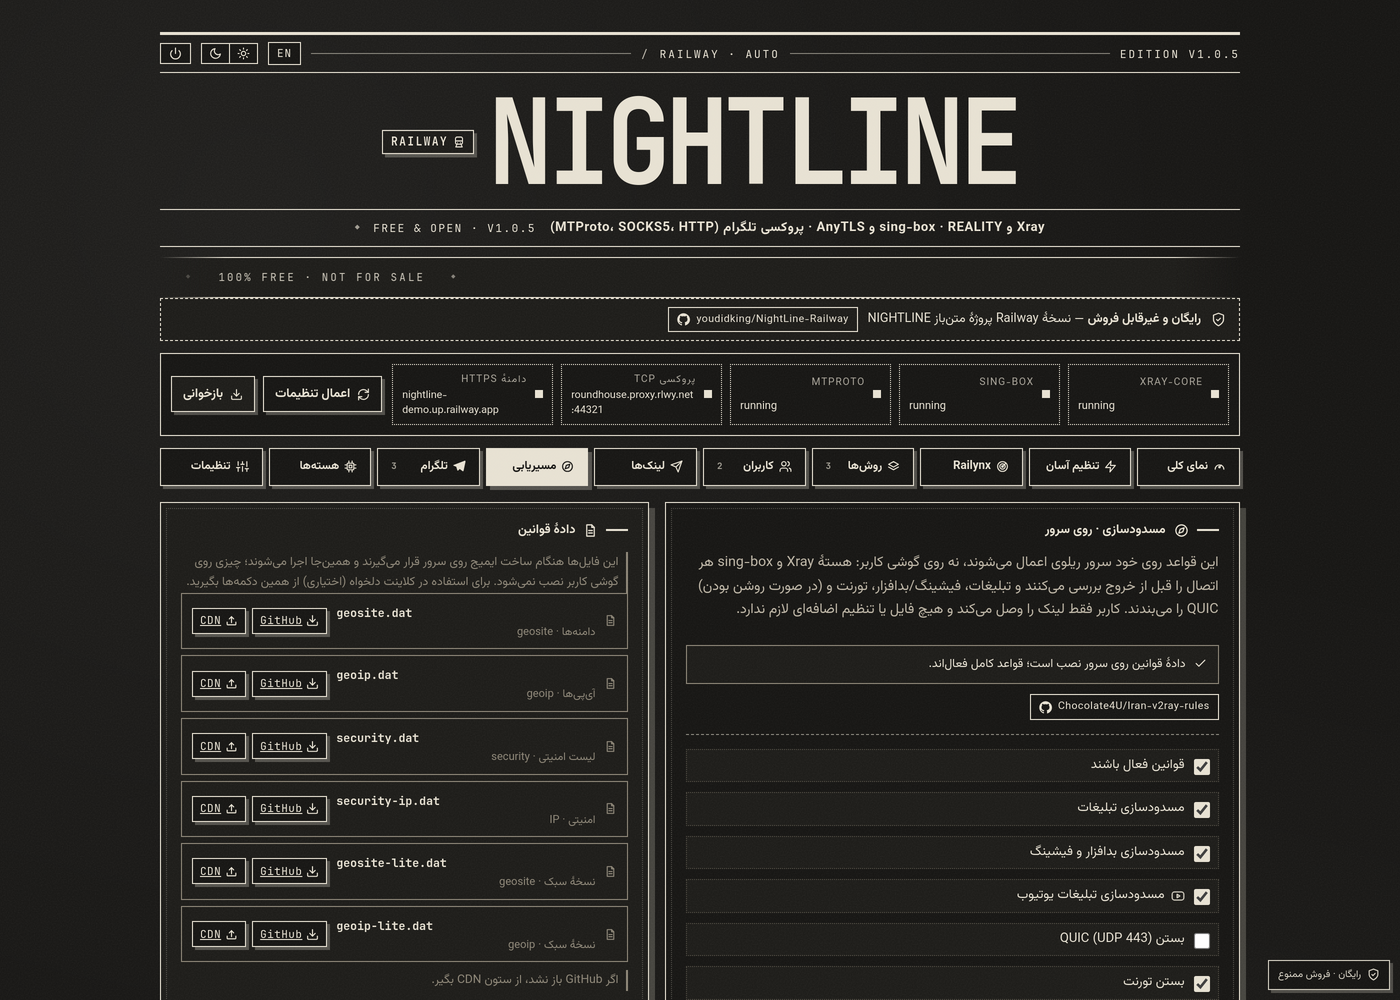
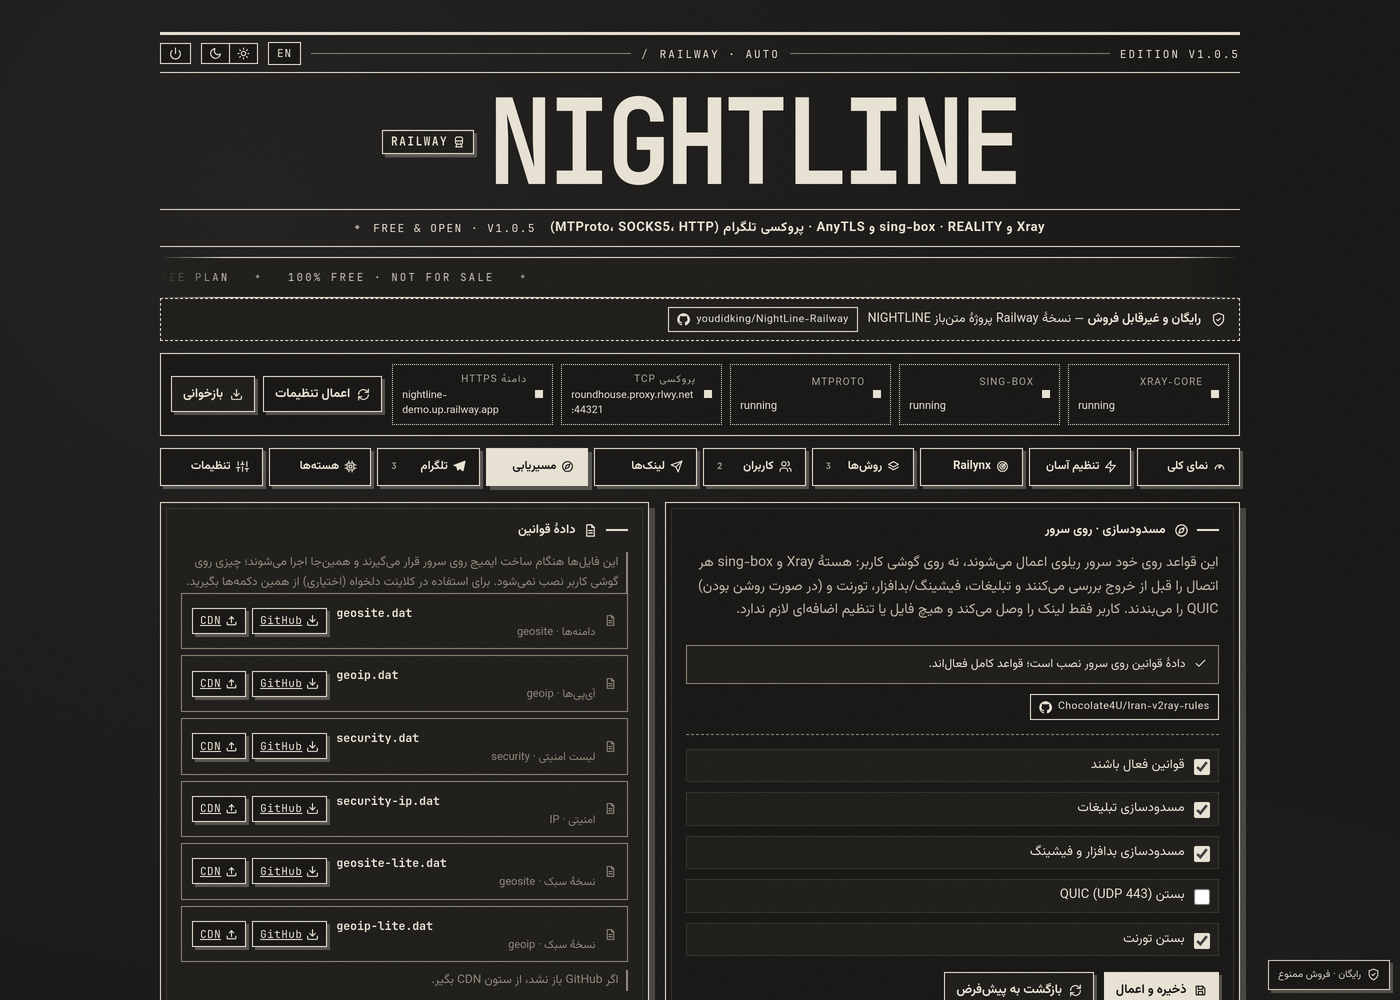
Add files via upload

diff --git a/src/routing.js b/src/routing.js
@@ -120,47 +120,6 @@ export function rulesAssets() {
 }
 
 /**
- * YouTube ad blocking (v1.0.5).
- *
- * A proxy server can only route by hostname — the URL path ("/api/stats/ads")
- * is inside TLS and is never visible, so YouTube's own ad endpoints cannot be
- * matched directly. What *is* left on the wire is two things, and both are used
- * here:
- *
- *  1. The ad/tracking hosts the player still talks to (ads.youtube.com,
- *     s.youtube.com — which carries /api/stats/ads, /pagead and /ptracking — and
- *     the Google ad servers that serve the video-ad VAST/VMAP documents).
- *  2. HTTP/3: YouTube ships the stitched ad stream over QUIC (UDP 443). Rejecting
- *     QUIC for the YouTube hostnames forces the player back to TCP, where ads are
- *     separable and skippable. This is the same rule the current YouTube
- *     ad-block modules ship ("UDP 443 reject") plus the host list — and because
- *     it is scoped to YouTube hostnames, ordinary QUIC traffic elsewhere is
- *     untouched.
- *
- * Video itself is served from googlevideo.com over TCP, so playback stays intact:
- * only the ad channels are cut, nothing on the user's device is configured.
- */
-export const YOUTUBE_AD_HOSTS = [
-  'ads.youtube.com',
-  's.youtube.com',
-  'pagead2.googlesyndication.com',
-  'pubads.g.doubleclick.net',
-  'googleads.g.doubleclick.net',
-  'static.doubleclick.net',
-  'adservice.google.com',
-];
-
-/** YouTube hostnames whose QUIC (HTTP/3) channel carries the ad stream. */
-export const YOUTUBE_QUIC_HOSTS = [
-  'googlevideo.com',
-  'youtube.com',
-  'youtu.be',
-  'ytimg.com',
-  'ggpht.com',
-  'youtubei.googleapis.com',
-];
-
-/**
  * Rules the cores enforce ON THE SERVER (this Railway container):
  * ads / malware / phishing / miners are dropped, QUIC and BitTorrent can be
  * dropped, private ranges never leave the box. No client-side setup needed.
@@ -183,20 +142,6 @@ export function serverXrayRules(settings, assets = rulesAssets()) {
       domain: ['geosite:malware', 'geosite:phishing', 'geosite:cryptominers'],
     });
     rules.push({ type: 'field', outboundTag: 'block', ip: ['geoip:malware', 'geoip:phishing'] });
-  }
-  if (s.blockYoutube) {
-    rules.push({
-      type: 'field',
-      outboundTag: 'block',
-      domain: YOUTUBE_AD_HOSTS.map((h) => `domain:${h}`),
-    });
-    rules.push({
-      type: 'field',
-      outboundTag: 'block',
-      domain: YOUTUBE_QUIC_HOSTS.map((h) => `domain:${h}`),
-      network: 'udp',
-      port: '443',
-    });
   }
   if (s.blockBittorrent) {
     // stops the service being used as a torrent exit node
@@ -228,10 +173,6 @@ export function serverSingboxRules(settings, assets = rulesAssets()) {
     rules.push({ rule_set: ['geosite-malware', 'geosite-phishing'], action: 'reject' });
     rules.push({ rule_set: 'geoip-malware', action: 'reject' });
   }
-  if (s.blockYoutube) {
-    rules.push({ domain_suffix: YOUTUBE_AD_HOSTS, action: 'reject' });
-    rules.push({ domain_suffix: YOUTUBE_QUIC_HOSTS, network: 'udp', port: 443, action: 'reject' });
-  }
   if (s.blockQuic) rules.push({ protocol: 'quic', action: 'reject' });
   if (s.blockBittorrent) rules.push({ protocol: 'bittorrent', action: 'reject' });
   return { ruleSets, rules };
@@ -241,7 +182,6 @@ export const ROUTING_DEFAULTS = {
   enabled: true,
   blockAds: true,
   blockSecurity: true,
-  blockYoutube: true,
   blockQuic: false,
   blockBittorrent: true,
 };

diff --git a/public/app.js b/public/app.js
@@ -2056,7 +2056,6 @@ const RT_TOGGLES = [
   { key: 'enabled', fa: 'قوانین فعال باشند', en: 'RULES ENABLED', hintFa: 'کلید اصلی؛ با خاموشکردن آن هیچ قاعدهای روی هستهها نوشته نمیشود.', hintEn: 'Master switch: no rules are written to the cores when off.' },
   { key: 'blockAds', fa: 'مسدودسازی تبلیغات', en: 'BLOCK ADS', hintFa: 'لیست تبلیغات فارسی و خارجی، روی خود سرور بسته میشود.', hintEn: 'Persian and foreign ad lists, blocked on the server itself.' },
   { key: 'blockSecurity', fa: 'مسدودسازی بدافزار و فیشینگ', en: 'BLOCK MALWARE & PHISHING', hintFa: 'دامنه و آیپیهای آلوده و ماینرها.', hintEn: 'Malware, phishing, miner domains and addresses.' },
-  { key: 'blockYoutube', icon: 'youtube', fa: 'مسدودسازی تبلیغات یوتیوب', en: 'BLOCK YOUTUBE ADS', hintFa: 'کانالهای تبلیغ یوتیوب روی سرور بسته میشوند: میزبانهای تبلیغ و کانال QUIC/UDP 443 که استریم تبلیغ از آن میآید. پخش خود ویدیو دستنخورده میماند و کاربر هیچ تنظیمی روی گوشی ندارد.', hintEn: 'YouTube ad channels are dropped on the server: the ad hosts and the QUIC/UDP 443 channel that carries the stitched ad stream. Video playback itself is untouched and the user configures nothing.' },
   { key: 'blockQuic', fa: 'بستن QUIC (UDP 443)', en: 'BLOCK QUIC (UDP 443)', hintFa: 'همان چیزی که DPI ایران بیشتر از همه محدود میکند.', hintEn: 'The protocol Iranian DPI throttles hardest.' },
   { key: 'blockBittorrent', fa: 'بستن تورنت', en: 'BLOCK TORRENT', hintFa: 'سرور بهعنوان خروجی تورنت استفاده نمیشود.', hintEn: 'Keeps the service from being used as a torrent exit.' },
 ];
@@ -2111,7 +2110,7 @@ function renderRouting() {
           ${RT_TOGGLES.map((row) => `
             <label class="chk" title="${esc(tt(row.hintFa, row.hintEn))}">
               <input type="checkbox" id="s-rt-${row.key}" ${s[row.key] ? 'checked' : ''}>
-              <span class="rt-row-label">${row.icon ? `<svg class="ic ic-sm rt-row-ic"><use href="#i-${row.icon}"/></svg>` : ''}${t(row.fa, row.en)}</span>
+              ${t(row.fa, row.en)}
             </label>`).join('')}
         </div>
         <div class="actions">

diff --git a/public/index.html b/public/index.html
@@ -20,7 +20,6 @@
   <symbol id="i-github" viewBox="0 0 24 24"><path fill="currentColor" stroke="none" d="M12 .5C5.73.5.5 5.73.5 12c0 5.08 3.29 9.39 7.86 10.91.58.11.79-.25.79-.55 0-.27-.01-1.17-.02-2.12-3.2.7-3.88-1.36-3.88-1.36-.52-1.33-1.28-1.68-1.28-1.68-1.05-.72.08-.7.08-.7 1.16.08 1.77 1.19 1.77 1.19 1.03 1.77 2.7 1.26 3.36.96.1-.75.4-1.26.73-1.55-2.55-.29-5.24-1.28-5.24-5.68 0-1.26.45-2.29 1.19-3.1-.12-.29-.52-1.46.11-3.05 0 0 .96-.31 3.16 1.18.92-.26 1.9-.39 2.88-.39.98 0 1.96.13 2.88.39 2.2-1.49 3.16-1.18 3.16-1.18.63 1.59.23 2.76.11 3.05.74.81 1.19 1.84 1.19 3.1 0 4.41-2.69 5.38-5.25 5.67.41.36.78 1.06.78 2.14 0 1.55-.01 2.8-.01 3.18 0 .31.21.67.8.55C20.71 21.39 24 17.08 24 12 24 5.73 18.27.5 12 .5z"/></symbol>
 <symbol id="i-telegram" viewBox="0 0 24 24"><path fill="currentColor" stroke="none" d="M23.07 3.28 19.6 19.66c-.26 1.16-.95 1.44-1.92.9l-5.3-3.91-2.56 2.47c-.28.28-.52.52-1.07.52-.69 0-.62-.28-.85-.94l-1.9-6.16L1.3 10.7c-1.13-.36-1.15-1.13.24-1.67L21.36 1.3c.94-.36 1.86.24 1.71 1.98zM8.53 14.5l9.15-5.77c.44-.28.85-.13.52.18l-7.5 6.77-.3 3.1-1.87-4.28z"/></symbol>
 <symbol id="i-telegram-old" viewBox="0 0 24 24"><path fill="currentColor" stroke="none" d="m9.78 18.65.28-4.23 7.71-6.93c.34-.31-.07-.46-.53-.18l-9.52 6.05-4.12-1.29c-.89-.28-.9-.89.2-1.33l16.08-6.2c.73-.32 1.44.18 1.17 1.4l-2.74 12.72c-.19.91-.75 1.13-1.51.71l-4.24-3.14-2.05 1.97c-.23.23-.43.43-.73.45Z"/></symbol>
-  <symbol id="i-youtube" viewBox="0 0 24 24"><rect x="2" y="5" width="20" height="14" rx="4"/><path d="M10.4 9.1l4.8 2.9-4.8 2.9z"/></symbol>
   <symbol id="i-bolt" viewBox="0 0 24 24"><path d="M13 2L3 14h9l-1 8 10-12h-9l1-8z"/></symbol>
   <symbol id="i-radar" viewBox="0 0 24 24"><circle cx="12" cy="12" r="9"/><circle cx="12" cy="12" r="5"/><circle cx="12" cy="12" r="1.5"/><path d="M12 12l6.3-6.3"/></symbol>
   <symbol id="i-sun" viewBox="0 0 24 24"><circle cx="12" cy="12" r="4"/><path d="M12 2v2M12 20v2M4.93 4.93l1.41 1.41M17.66 17.66l1.41 1.41M2 12h2M20 12h2M4.93 19.07l1.41-1.41M17.66 6.34l1.41-1.41"/></symbol>

diff --git a/public/extra.css b/public/extra.css
@@ -666,10 +666,3 @@ footer.colophon-wrap,footer{margin-top:26px}
 .hosts-alert .field-grid{margin-bottom:10px}
 @media (max-width:640px){ .hosts-alert .field-grid{grid-template-columns:minmax(0,1fr)} }
 
-/* ═══════════════════════════════════════════════════════════════════════
-   1.0.5 · youtube icon inside the routing toggles
-   The new "block YouTube ads" row carries a small play-button glyph next to
-   its label, so the switch is recognisable at a glance without reading it.
-   ---------------------------------------------------------------------- */
-.chk .rt-row-label{display:inline-flex;align-items:center;gap:6px;min-width:0}
-.chk .rt-row-ic{width:14px;height:14px;flex:none;opacity:.9}

diff --git a/assets/src/features.html b/assets/src/features.html
@@ -142,7 +142,7 @@
         <span class="n">13</span>
         <svg class="ic"><use href="#i-compass"/></svg>
         <h3>مسدودسازی روی سرور</h3>
-        <p>تبلیغات، تبلیغات یوتیوب، فیشینگ، بدافزار و تورنت روی خود سرور بسته میشوند؛ روی گوشی کاربر هیچ تنظیم یا فایلی لازم نیست.</p>
+        <p>تبلیغات، فیشینگ، بدافزار و تورنت روی خود سرور بسته میشوند؛ روی گوشی کاربر هیچ تنظیم یا فایلی لازم نیست.</p>
         <div class="tagline">SERVER-SIDE RULES</div>
       </div>
     </div>

diff --git a/README.md b/README.md
@@ -55,7 +55,7 @@
 | **کاربران** | ساخت/ویرایش/حذف، سهمیهٔ حجم، تاریخ انقضا، محدودیت IP، صفر کردن مصرف، تعویض کلید |
 | **اشتراک** | پنج فرمت: لینک خام، base64، کانفیگ کامل Xray، کانفیگ کامل sing-box، YAML کلش/میهومو — **یک لینک، همهٔ روشهای فعال** |
 | **تنظیم آسان** | سه پروفایل ایرانمحور که خودشان شبکه را تحلیل میکنند، پروتکلها را میچینند و لینک آماده تحویل میدهند |
-| **مسدودسازی روی سرور** | تبلیغات، تبلیغات یوتیوب، فیشینگ/بدافزار و تورنت روی خود سرور بسته میشوند — بدون هیچ تنظیمی روی گوشی کاربر |
+| **مسدودسازی روی سرور** | تبلیغات، فیشینگ/بدافزار و تورنت روی خود سرور بسته میشوند — بدون هیچ تنظیمی روی گوشی کاربر |
 | **ویرایش آزاد** | کانفیگ کامل Xray و sing-box را میتوانید دستی ویرایش کنید؛ اگر هسته رد کند، پنل خودکار برمیگردد |
 | **Railynx** | اسکنر آیپی تمیز ریلوی: رنج را میگردد و فقط آیپیهایی را میدهد که سه بار پشت سر هم VLESS-over-WS را با ۲۰۴ رد کنند |
 | **تحویل** | QR، صفحهٔ اختصاصی کاربر (`/u/<token>`)، هدر `Subscription-Userinfo` |
@@ -207,11 +207,9 @@ Railway یک `host:port` عمومی میدهد و همان را در `RAILWAY
 | :--- | :--- | :--- |
 | **تبلیغات** | روشن | دامنههای `category-ads-all` و `ads` مسدود میشوند |
 | **فیشینگ و بدافزار** | روشن | دامنه و آیپیهای مخرب مسدود میشوند |
-| **تبلیغات یوتیوب** | روشن | میزبانهای تبلیغ یوتیوب و کانال QUIC (UDP 443) که استریم تبلیغ را میآورد بسته میشوند؛ پخش ویدیو دستنخورده میماند |
 | **QUIC (UDP 443)** | خاموش | بستن QUIC؛ روشن کردنش سرعت را در بعضی شبکهها بهتر میکند |
 | **تورنت** | روشن | سرور به خروجی تورنت تبدیل نمیشود |
 
-- **تبلیغات یوتیوب:** سرور فقط هاست (نام دامنه) را میبیند و مسیر URL داخل TLS پنهان است، پس تبلیغات یوتیوب از دو راه واقعی بسته میشود: میزبانهای تبلیغ (`ads.youtube.com`، `s.youtube.com` که `/api/stats/ads` و `/pagead` روی آن است، و سرورهای تبلیغ گوگل) مسدود میشوند و کانال **QUIC / UDP 443** همان دامنههای یوتیوب که استریم تبلیغ از آن میآید بسته میشود تا پخش روی TCP برود. ویدیو از همان CDN روی TCP میآید، پس پخش سالم میماند و کاربر هیچ کاری نمیکند.
 - هیچ گزینهٔ «ایران مستقیم»، تقسیم ترافیک یا قاعدهٔ سمت کلاینت وجود ندارد؛ فایلهای اشتراک (Xray / sing-box / Clash) ساده و ثابتاند و فقط اتصال را میسازند.
 - قواعد در کانفیگ **Xray** (بخش `routing`) و **sing-box** (`route.rules`) نوشته میشوند و قبل از اجرا با `xray -test` و `sing-box check` اعتبارسنجی میشوند.
 - اگر هسته به هر دلیلی (مثلاً نبود دادهٔ قوانین) کانفیگ را رد کند، پنل همان لحظه یکبار بدون قواعد ژئو دوباره بالا میآید و در لاگ هشدار میدهد؛ اتصال کاربر هرگز قربانی یک قاعدهٔ مسدودسازی نمیشود.
@@ -419,6 +417,16 @@ vless://UUID@<CleanIP>:<port>?encryption=none&security=<security>&sni=<domain>&f
 
 > هیچ کلید، سکرت یا گذرواژهای در مخزن، در `.env.example` یا در مستندات نیست. همهٔ آنها در اولین اجرا و روی والیوم خودتان ساخته میشوند.
 
+---
+
+## محدودیتهای صادقانه
+
+1. **UDP عمومی وجود ندارد.** پس Hysteria2، TUIC و WireGuard روی این سرویس قابل انتشار نیستند؛ کانفیگ و لینکشان برای نودهای دیگر تولید میشود ولی پنل آنها را «غیرفعال روی ریلوی» علامت میزند.
+2. **فقط یک TCP Proxy** در هر سرویس. مالتیپلکسر همین را جبران میکند، اما پورت دوم برای TLS جداگانه ندارید.
+3. **TLS لبه، مال ریلوی است.** REALITY روی پورت TCP هیچ گواهیای لازم ندارد؛ AnyTLS گواهی خودامضا دارد و کلاینت باید `allowInsecure` را بپذیرد. لینکهای دامنهای (WS/XHTTP/gRPC) چون از لبه عبور میکنند پیشفرض خاموشاند و با برچسب LAB نمایش داده میشوند.
+4. **gRPC** به HTTP/2 در لبهٔ ریلوی وابسته است و آزمایشی است؛ WebSocket هم روی لبه ناپایدار میشود. برای همین مسیر پیشنهادی همان پورت TCP است.
+5. **پلن رایگان ریلوی**: ۰٫۵ گیگ رم، ۱ vCPU، ۰٫۵ گیگ Volume، و بعد از دورهٔ آزمایشی اعتبار ماهانهٔ بسیار کم. این سرویس برای استفادهٔ خانوادگی/دوستانه طراحی شده، نه برای فروش ترافیک. برای مصرف جدی، پلن Hobby یا یک VPS ارزان واقعگرایانهتر است.
+6. **قوانین را رعایت کنید.** استفاده از ریلوی و تلگرام تابع قوانین خودشان است؛ این پروژه فقط ابزار است.
 
 ---
 
@@ -540,6 +548,11 @@ scripts/                نصب باینریها و پیشبررسی
 docs/                   مستندات تفصیلی
 ```
 
+---
+
+### یادداشت فنی دربارهٔ ایمیج
+
+پایهٔ ایمیج **`node:22-bookworm-slim`** (Debian، glibc) است، نه Alpine. دلیلش این است که باینری رسمی `sing-box` بهصورت داینامیک به glibc لینک شده (`libc.so.6`، `libpthread`، `libdl`) و روی musl با خطای `not found` (کد ۱۲۷) بالا نمیآید. `xray` و `mtg` استاتیکاند و همهجا اجرا میشوند. این کار حدود ۶۰ مگابایت به حجم ایمیج اضافه میکند ولی بیلد و اجرا را قابلاعتماد میکند.
 
 ---
 
